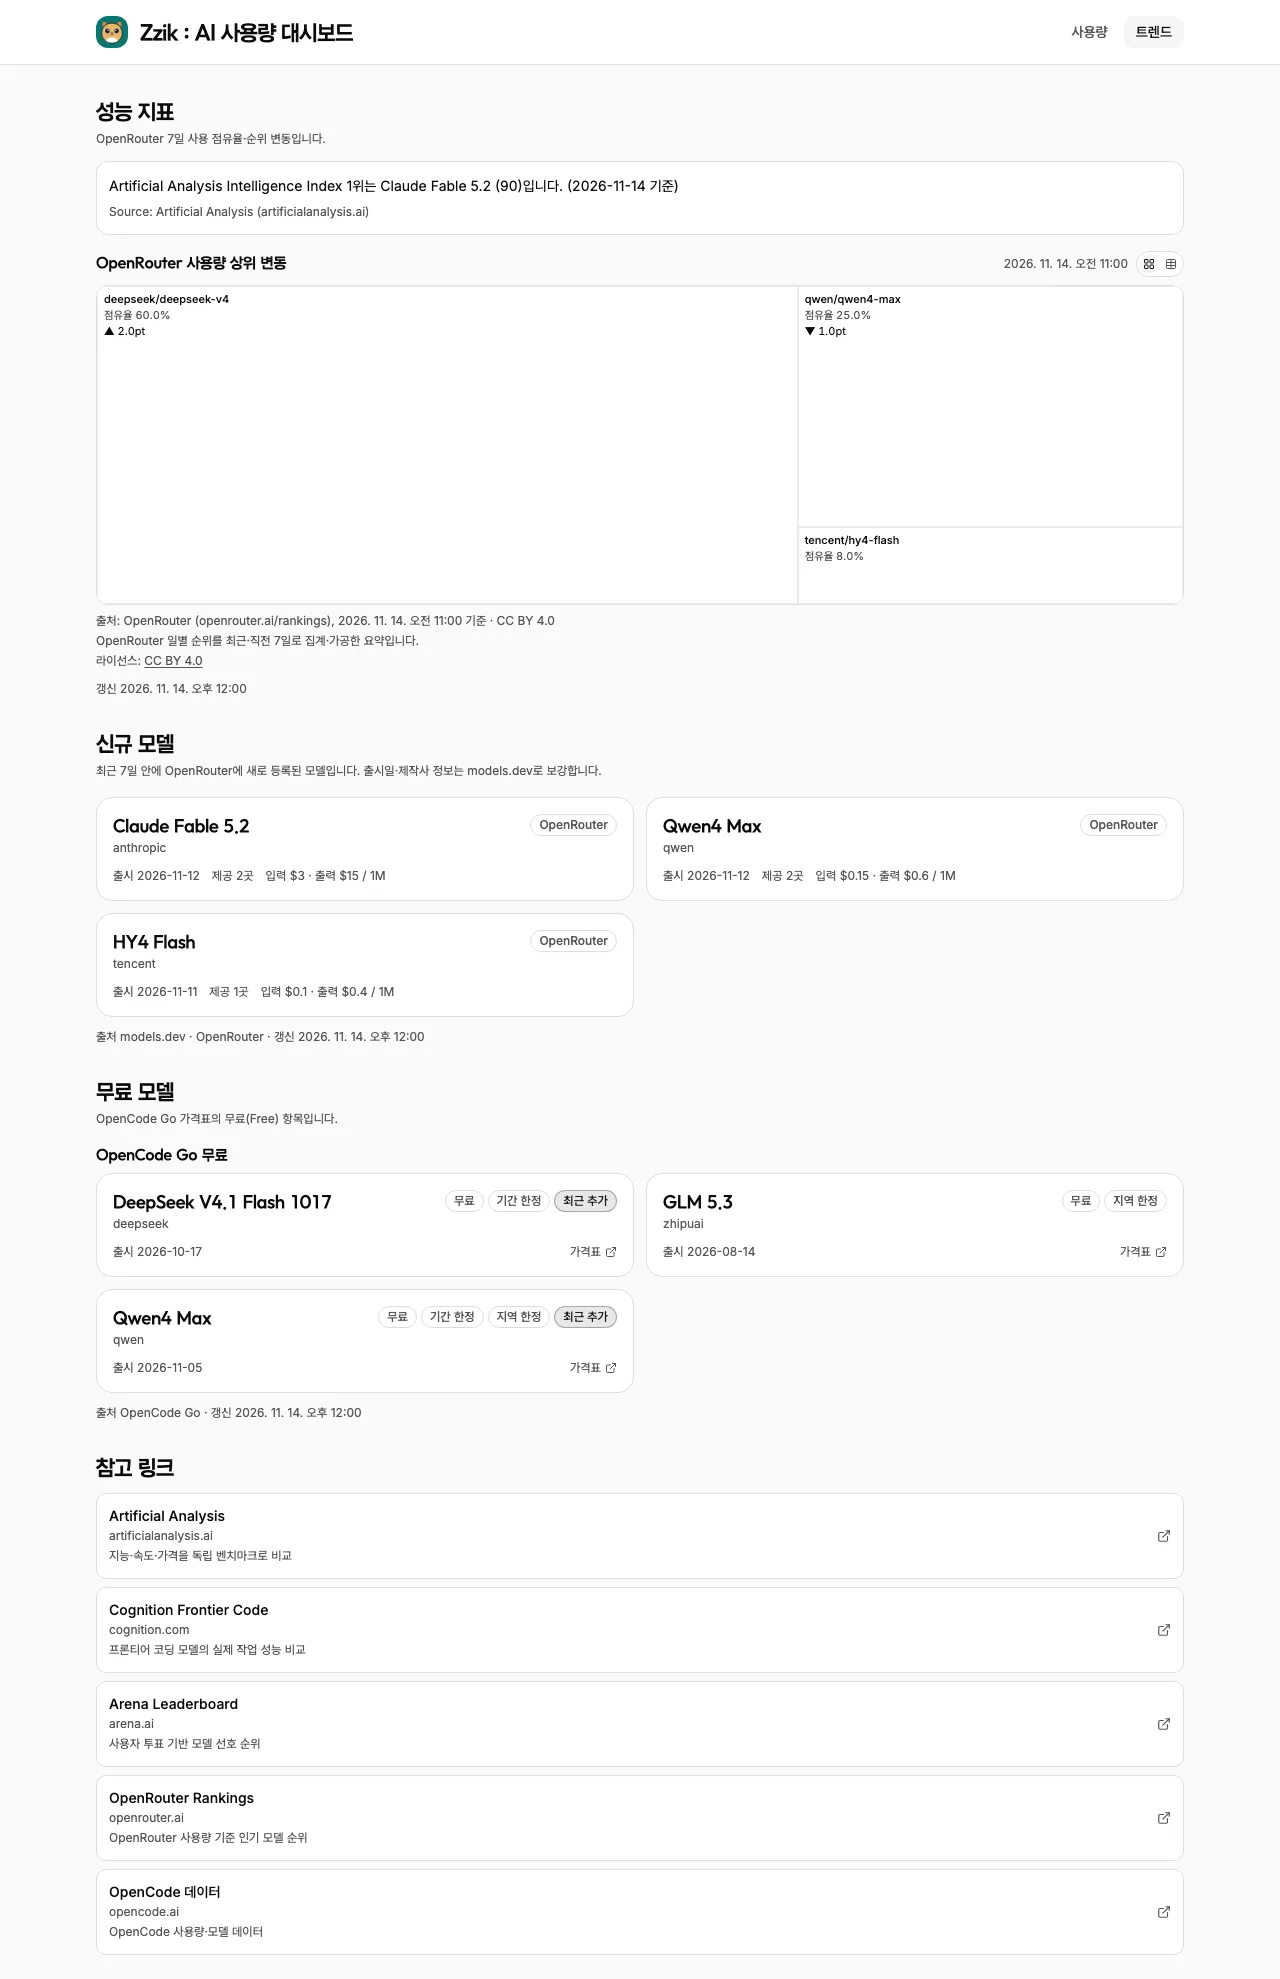
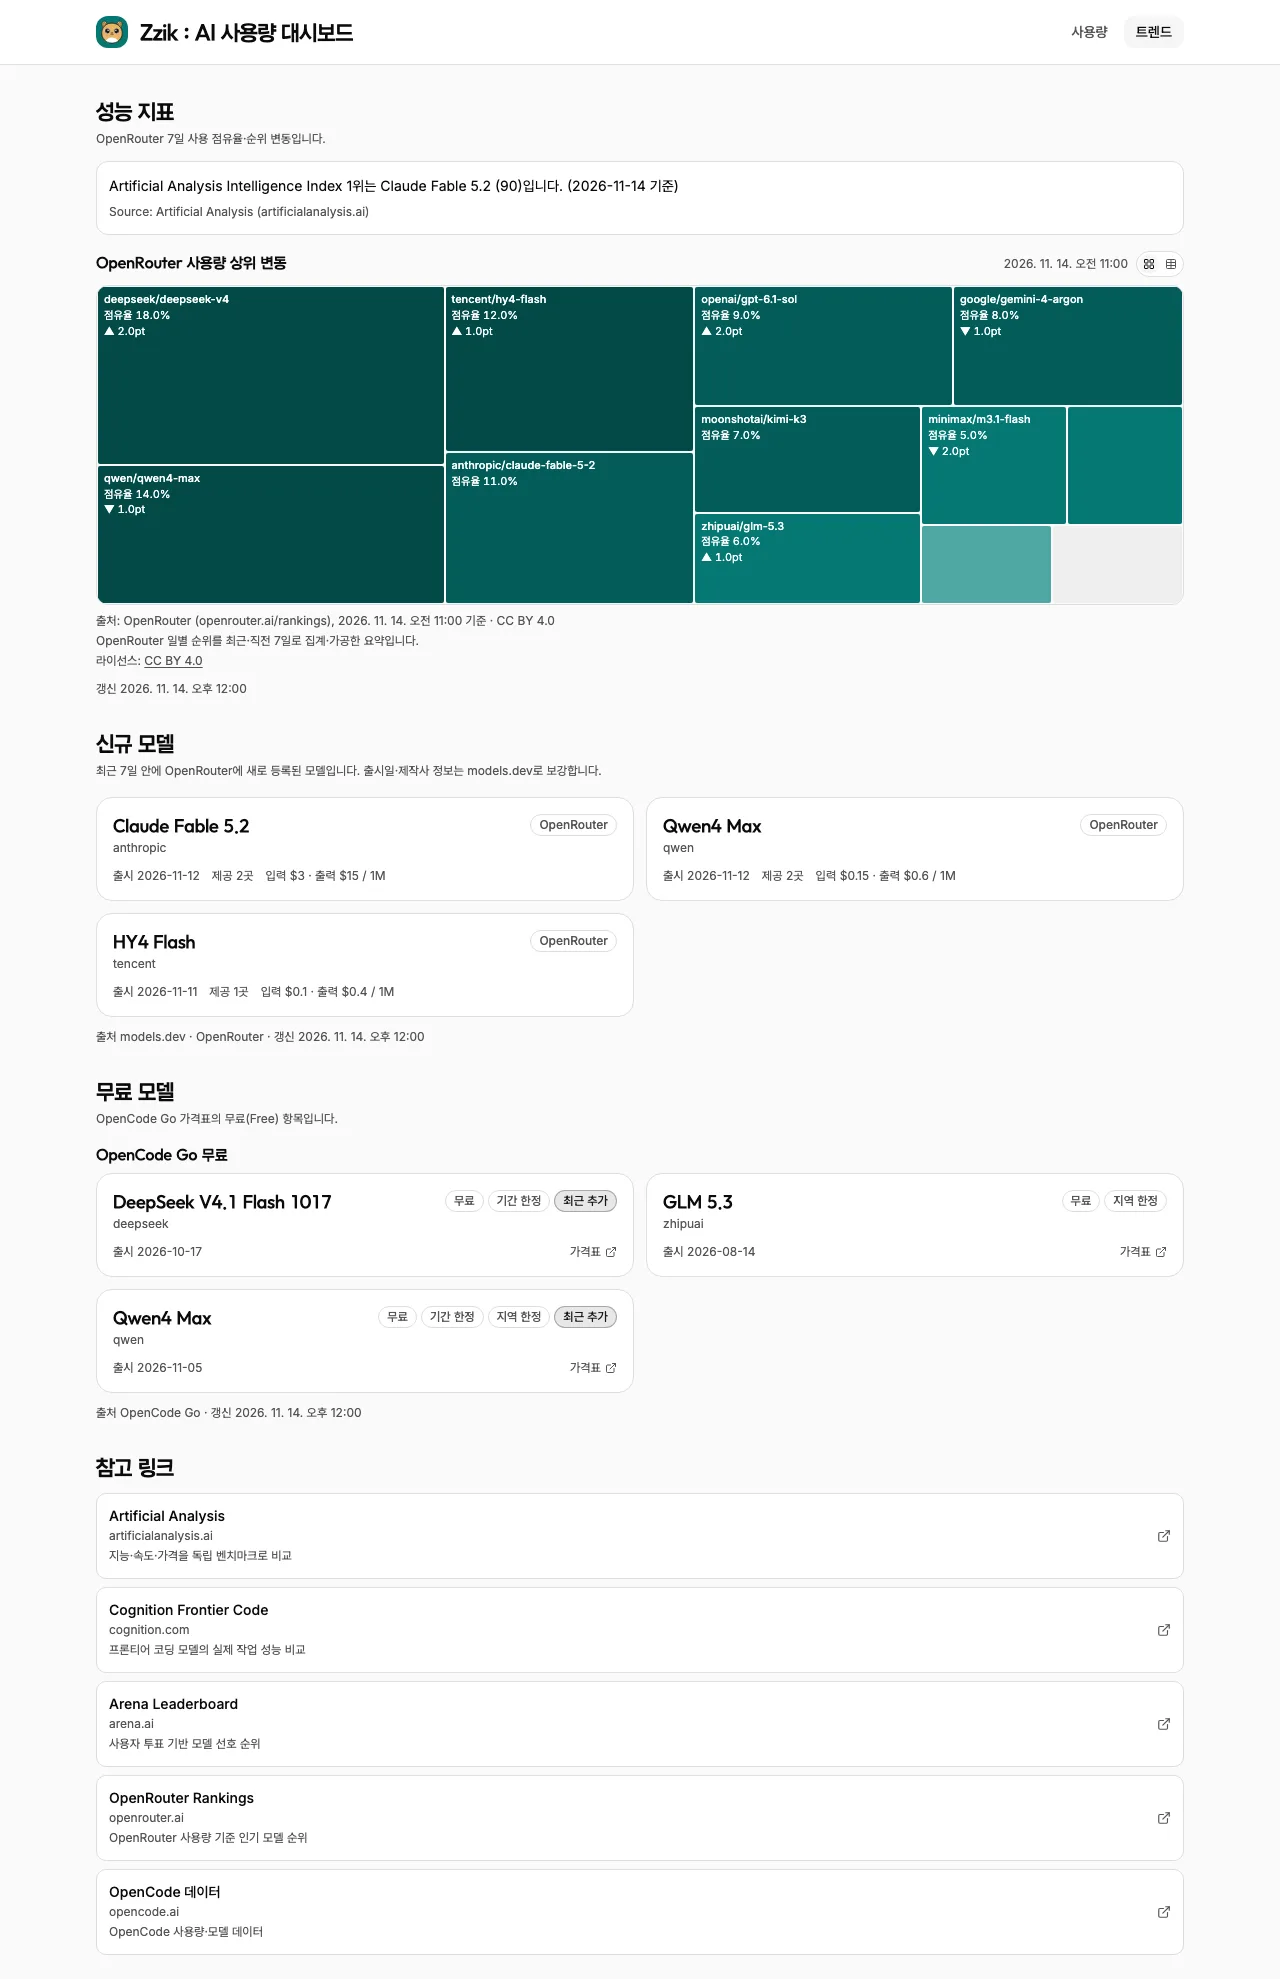
fix: 트리맵 점유율 색상 단계·대비와 fixture 보강 (Refs #116)

Changed region(s): [[0.0625, 0.1233, 0.9375, 0.3082]]

diff --git a/src/ui/trend/MetricsSection.tsx b/src/ui/trend/MetricsSection.tsx
@@ -6,7 +6,7 @@ import { TREND_AA_LEADERBOARD_URL } from '@shared/trend-contract'
 import type { TrendMetricsBlock, TrendMetricsEntry } from '@shared/trend-contract'
 import { useTrendDeps } from '@app/trend/TrendGatewayContext'
 import { TrendLoadError, useTrendSection } from '@app/trend/useTrendSection'
-import { shouldShowTreemapLabel, squarify } from './treemap-layout'
+import { TREEMAP_STEPS, shouldShowTreemapLabel, squarify, treemapStep } from './treemap-layout'
 
 export const METRICS_VIEW_STORAGE_KEY = 'zzik:trend-metrics-view:v1'
 const METRICS_VIEW_SCHEMA_VERSION = 1
@@ -124,16 +124,20 @@ function EntryRow({ entry }: { entry: TrendMetricsEntry }): ReactNode {
 }
 
 function Treemap({ entries }: { entries: readonly TrendMetricsEntry[] }): ReactNode {
+  const maxShare = Math.max(0, ...entries.map((entry) => entry.share7d ?? 0))
   const rects = squarify(entries.map((entry) => ({ id: entry.id, value: entry.share7d ?? 0 })), 100, 56.25)
   const byId = new Map(entries.map((entry) => [entry.id, entry]))
   return (
-    <div data-testid="trend-metrics-treemap" role="list" aria-label={t('trend.metrics.treemap.aria')} className="relative mt-2 h-[220px] w-full overflow-hidden rounded-lg border border-border bg-card sm:h-[320px]">
+    <div data-testid="trend-metrics-treemap" role="list" aria-label={t('trend.metrics.treemap.aria')} className="relative mt-2 h-[220px] w-full overflow-hidden rounded-lg border border-border bg-background sm:h-[320px]">
       {rects.map((rect) => {
         const entry = byId.get(rect.id)
         if (entry === undefined) return null
         const label = entryLabel(entry)
         const showLabel = shouldShowTreemapLabel(rect)
         const isOther = entry.id === 'other'
+        const step = treemapStep(entry.share7d ?? 0, maxShare)
+        const palette = TREEMAP_STEPS[step]!
+        const tone = isOther || step >= 3 ? 'light' : 'dark'
         return (
           <div
             key={rect.id}
@@ -144,13 +148,22 @@ function Treemap({ entries }: { entries: readonly TrendMetricsEntry[] }): ReactN
             data-testid="trend-treemap-cell"
             data-entry-id={rect.id}
             data-label-visible={showLabel ? 'true' : 'false'}
-            className={`absolute overflow-hidden border p-1.5 text-[11px] leading-tight outline-none focus-visible:ring-2 focus-visible:ring-ring ${isOther ? 'border-border bg-muted text-muted-foreground' : 'border-border/60 bg-card text-card-foreground hover:bg-accent focus-visible:bg-accent'}`}
-            style={{ left: `${rect.x}%`, top: `${(rect.y / 56.25) * 100}%`, width: `${rect.width}%`, height: `${(rect.height / 56.25) * 100}%` }}
+            data-step={isOther ? 'other' : step}
+            data-tone={isOther ? 'other' : tone}
+            className="absolute overflow-hidden rounded-[2px] p-1.5 text-[11px] leading-tight outline-none focus-visible:ring-2 focus-visible:ring-ring"
+            style={{
+              left: `calc(${rect.x}% + 1px)`,
+              top: `calc(${(rect.y / 56.25) * 100}% + 1px)`,
+              width: `max(0px, calc(${rect.width}% - 2px))`,
+              height: `max(0px, calc(${(rect.height / 56.25) * 100}% - 2px))`,
+              backgroundColor: isOther ? 'var(--muted)' : palette.background,
+              color: isOther ? 'var(--muted-foreground)' : palette.foreground,
+            }}
           >
             {showLabel && (
               <span className="flex h-full min-h-0 flex-col gap-0.5">
                 <span className="break-all font-medium">{entryName(entry)}</span>
-                <span className="tabular-nums text-muted-foreground">{t('trend.metrics.or.share', { share: ((entry.share7d ?? 0) * 100).toFixed(1) })}</span>
+                <span className="tabular-nums">{t('trend.metrics.or.share', { share: ((entry.share7d ?? 0) * 100).toFixed(1) })}</span>
                 {entry.shareDelta !== undefined && entry.shareDelta !== null && Math.abs(entry.shareDelta) >= 0.0005 && (
                   <span className="tabular-nums">{treemapDeltaLabel(entry.shareDelta)}</span>
                 )}

diff --git a/src/infra/trend/fixture-trend-data.ts b/src/infra/trend/fixture-trend-data.ts
@@ -90,9 +90,18 @@ const METRICS = {
   blocks: [{
     id: 'or-usage', status: 'ok', asOf: SOURCE_AT, asOfKind: 'source',
     entries: [
-      { id: 'deepseek/deepseek-v4', name: 'deepseek/deepseek-v4', creator: 'deepseek', rank: 1, rankDelta: 2, kind: 'moved', share7d: 0.6, shareDelta: 0.02 },
-      { id: 'qwen/qwen4-max', name: 'qwen/qwen4-max', creator: 'qwen', rank: 2, rankDelta: -1, kind: 'moved', share7d: 0.25, shareDelta: -0.01 },
-      { id: 'tencent/hy4-flash', name: 'tencent/hy4-flash', creator: 'tencent', rank: 3, rankDelta: null, kind: 'new-top', share7d: 0.08 },
+      { id: 'deepseek/deepseek-v4', name: 'deepseek/deepseek-v4', creator: 'deepseek', rank: 1, rankDelta: null, kind: 'moved', share7d: 0.18, shareDelta: 0.02 },
+      { id: 'qwen/qwen4-max', name: 'qwen/qwen4-max', creator: 'qwen', rank: 2, rankDelta: null, kind: 'moved', share7d: 0.14, shareDelta: -0.01 },
+      { id: 'tencent/hy4-flash', name: 'tencent/hy4-flash', creator: 'tencent', rank: 3, rankDelta: null, kind: 'new-top', share7d: 0.12, shareDelta: 0.01 },
+      { id: 'anthropic/claude-fable-5-2', name: 'anthropic/claude-fable-5-2', creator: 'anthropic', rank: 4, rankDelta: null, kind: 'steady', share7d: 0.11 },
+      { id: 'openai/gpt-6.1-sol', name: 'openai/gpt-6.1-sol', creator: 'openai', rank: 5, rankDelta: null, kind: 'moved', share7d: 0.09, shareDelta: 0.02 },
+      { id: 'google/gemini-4-argon', name: 'google/gemini-4-argon', creator: 'google', rank: 6, rankDelta: null, kind: 'moved', share7d: 0.08, shareDelta: -0.01 },
+      { id: 'moonshotai/kimi-k3', name: 'moonshotai/kimi-k3', creator: 'moonshotai', rank: 7, rankDelta: null, kind: 'steady', share7d: 0.07 },
+      { id: 'zhipuai/glm-5.3', name: 'zhipuai/glm-5.3', creator: 'zhipuai', rank: 8, rankDelta: null, kind: 'moved', share7d: 0.06, shareDelta: 0.01 },
+      { id: 'minimax/m3.1-flash', name: 'minimax/m3.1-flash', creator: 'minimax', rank: 9, rankDelta: null, kind: 'moved', share7d: 0.05, shareDelta: -0.02 },
+      { id: 'nvidia/nemotron-3-ultra', name: 'nvidia/nemotron-3-ultra', creator: 'nvidia', rank: 10, rankDelta: null, kind: 'steady', share7d: 0.04 },
+      { id: 'meta/llama-4', name: 'meta/llama-4', creator: 'meta', rank: 11, rankDelta: null, kind: 'moved', share7d: 0.03, shareDelta: 0.01 },
+      { id: 'other', name: 'other', creator: null, rank: 12, rankDelta: null, kind: 'steady', share7d: 0.03, shareDelta: 0 },
     ],
     attribution: 'Source: OpenRouter (openrouter.ai/rankings), as of 2026-11-14T02:00:00Z. Licensed under CC BY 4.0.',
     license: { name: TREND_OR_LICENSE_NAME, url: TREND_OR_LICENSE_URL },

diff --git a/tests/ui/trend/treemap-layout.test.ts b/tests/ui/trend/treemap-layout.test.ts
@@ -1,5 +1,5 @@
 import { describe, expect, it } from 'vitest'
-import { shouldShowTreemapLabel, squarify } from '@ui/trend/treemap-layout'
+import { TREEMAP_STEPS, shouldShowTreemapLabel, squarify, treemapStep } from '@ui/trend/treemap-layout'
 
 describe('Given the squarified treemap layout', () => {
   it('When values are 60/25/8 Then returns one rect per item with proportional areas inside the box', () => {
@@ -30,6 +30,32 @@ describe('Given the squarified treemap layout', () => {
     const rects = squarify([{ id: 'a', value: 0 }, { id: 'b', value: 2 }], 100, 56.25)
     expect(rects.map((rect) => rect.id)).toEqual(['b'])
     expect(rects[0]!.width * rects[0]!.height).toBeCloseTo(100 * 56.25, 4)
+  })
+
+  it('When shares are ranked against the max Then maps to 5 lightness steps', () => {
+    expect(treemapStep(0.18, 0.18)).toBe(0)
+    expect(treemapStep(0.12, 0.18)).toBe(0)
+    expect(treemapStep(0.09, 0.18)).toBe(1)
+    expect(treemapStep(0.06, 0.18)).toBe(2)
+    expect(treemapStep(0.03, 0.18)).toBe(3)
+    expect(treemapStep(0.005, 0.18)).toBe(4)
+    expect(treemapStep(0, 0)).toBe(4)
+  })
+
+  it('When text sits on a palette step Then contrast stays at least 4.5:1', () => {
+    const luminance = (hex: string): number => {
+      const channels = [1, 3, 5].map((index) => Number.parseInt(hex.slice(index, index + 2), 16) / 255)
+      const linear = channels.map((value) => (value <= 0.03928 ? value / 12.92 : ((value + 0.055) / 1.055) ** 2.4))
+      return 0.2126 * linear[0]! + 0.7152 * linear[1]! + 0.0722 * linear[2]!
+    }
+    const contrast = (a: string, b: string): number => {
+      const [light, dark] = [luminance(a), luminance(b)].sort((x, y) => y - x)
+      return (light! + 0.05) / (dark! + 0.05)
+    }
+    expect(TREEMAP_STEPS).toHaveLength(5)
+    for (const step of TREEMAP_STEPS) {
+      expect(contrast(step.background, step.foreground)).toBeGreaterThanOrEqual(4.5)
+    }
   })
 
   it('When a cell is tiny Then hides the label while large cells keep it', () => {

diff --git a/src/ui/trend/treemap-layout.ts b/src/ui/trend/treemap-layout.ts
@@ -13,6 +13,26 @@ export interface TreemapRect {
   height: number
 }
 
+/** --brand(#057873) 계열의 5단계 명도. 0~2는 흰 글자, 3~4는 검정 글자로 4.5:1 이상이다. */
+export const TREEMAP_STEPS = [
+  { background: '#024a46', foreground: '#ffffff' },
+  { background: '#035c58', foreground: '#ffffff' },
+  { background: '#057873', foreground: '#ffffff' },
+  { background: '#4fa8a2', foreground: '#0a0a0a' },
+  { background: '#9fd4d0', foreground: '#0a0a0a' },
+] as const
+
+/** 점유율을 최대값 대비 5단계 명도로 매핑한다. 작은 점유율일수록 밝다. */
+export function treemapStep(value: number, maxValue: number): number {
+  if (maxValue <= 0) return TREEMAP_STEPS.length - 1
+  const ratio = value / maxValue
+  if (ratio >= 0.65) return 0
+  if (ratio >= 0.35) return 1
+  if (ratio >= 0.18) return 2
+  if (ratio >= 0.07) return 3
+  return 4
+}
+
 function worstRatio(row: readonly number[], side: number): number {
   const sum = row.reduce((total, area) => total + area, 0)
   const max = Math.max(...row)
@@ -71,5 +91,5 @@ export function squarify(items: readonly TreemapItem[], width: number, height: n
 
 /** 칸이 작으면 라벨을 숨기고 title·aria-label·sr-only 목록으로 대체한다. */
 export function shouldShowTreemapLabel(rect: Pick<TreemapRect, 'width' | 'height'>): boolean {
-  return rect.width * rect.height >= 110
+  return rect.width * rect.height >= 240
 }

diff --git a/tests/ui/trend/FixtureTrend.test.tsx b/tests/ui/trend/FixtureTrend.test.tsx
@@ -30,7 +30,11 @@ describe('Given /trend?fixture=normal', () => {
     expect(screen.getByRole('heading', { name: '무료 모델' })).toBeTruthy()
     expect(screen.getByRole('heading', { name: '참고 링크' })).toBeTruthy()
 
-    expect(await screen.findAllByTestId('trend-treemap-cell')).toHaveLength(3)
+    const cells = await screen.findAllByTestId('trend-treemap-cell')
+    expect(cells).toHaveLength(12)
+    expect(cells.filter((cell) => cell.getAttribute('data-label-visible') === 'false').length).toBeGreaterThan(0)
+    expect(cells.filter((cell) => cell.getAttribute('data-step') === 'other')).toHaveLength(1)
+    expect(cells.every((cell) => (cell as HTMLElement).style.backgroundColor !== '')).toBe(true)
     const metrics = within(screen.getByTestId('trend-metrics'))
     expect(metrics.queryByText('Artificial Analysis Intelligence Index')).toBeNull()
     expect(metrics.getByTestId('trend-metrics-aa-citation').textContent).toContain('Artificial Analysis Intelligence Index 1위는 Claude Fable 5.2')

diff --git a/tests/ui/trend/Metrics.test.tsx b/tests/ui/trend/Metrics.test.tsx
@@ -120,7 +120,8 @@ describe('Given the metrics section on /trend', () => {
     renderPage(async () => ({ ok: true, value: payload }))
     await screen.findByTestId('trend-metrics-treemap')
     const other = screen.getAllByTestId('trend-treemap-cell').find((cell) => cell.getAttribute('data-entry-id') === 'other')!
-    expect(other.className).toContain('bg-muted')
+    expect(other.getAttribute('data-step')).toBe('other')
+    expect((other as HTMLElement).style.backgroundColor).toContain('--muted')
     expect(other.getAttribute('title')).toContain('기타')
   })
 
